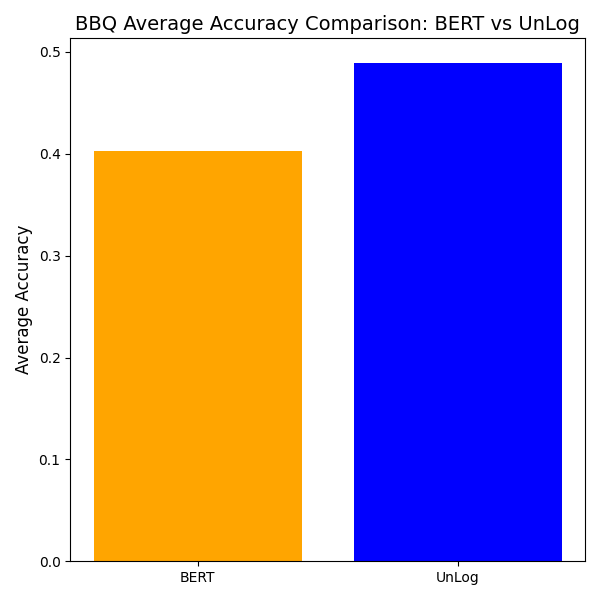
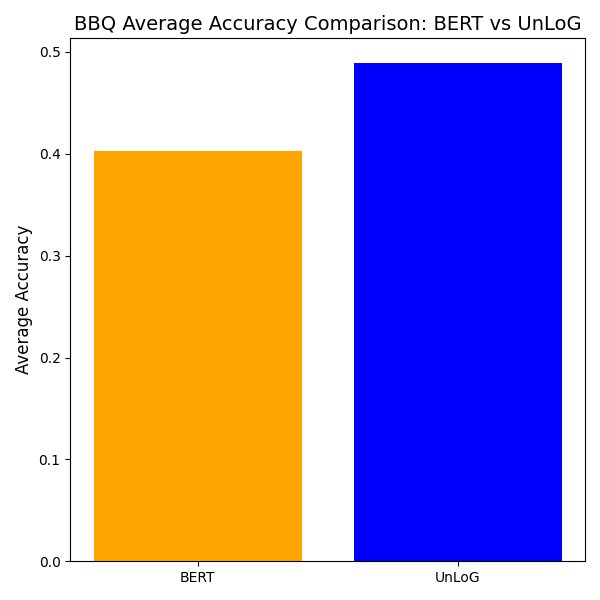
Modify: image title fixed

Changed region(s): [[0.12, 0.03, 0.99, 0.06], [0.72, 0.93, 0.81, 0.99]]

diff --git a/graph.py b/graph.py
@@ -3,7 +3,7 @@ import numpy as np
 
 # Data for comparison
 categories = [
-    "Age", "Disability_status", "Gender_identity","Nationality",    "Physical_appearance", "Race_ethnicity",
+    "Age", "Disability_status", "Gender_identity","Nationality", "Physical_appearance", "Race_ethnicity",
     "Race_x_gender", "Race_x_SES", "Religion", "SES", "Sexual_orientation"
 ]
 
@@ -30,17 +30,17 @@ width = 0.4  # Bar width
 
 # Plotting the bars for BERT and UnLog models
 bars_bert = ax.bar(x - width/2, bert_accuracies, width, label="BERT (baseline)", color='orange')
-bars_unlog = ax.bar(x + width/2, unlog_accuracies, width, label="UnLog (our model)", color='blue')
+bars_unlog = ax.bar(x + width/2, unlog_accuracies, width, label="UnLoG (our model)", color='blue')
 
 # Adding labels and title
 ax.set_xlabel('Category', fontsize=12)
 ax.set_ylabel('Accuracy', fontsize=12)
-ax.set_title('BBQ Accuracy Comparison: BERT vs UnLog', fontsize=14)
+ax.set_title('BBQ Accuracy Comparison: BERT vs UnLoG', fontsize=14)
 ax.set_xticks(x)
 ax.set_xticklabels(categories, rotation=45, ha='right', fontsize=10)
 ax.legend()
 
-"""# Adding values on top of the bars
+# Adding values on top of the bars
 def add_labels(bars):
     for bar in bars:
         height = bar.get_height()
@@ -51,17 +51,17 @@ def add_labels(bars):
                     ha='center', va='bottom', fontsize=10)
 
 add_labels(bars_bert)
-add_labels(bars_unlog)"""
+add_labels(bars_unlog)
 
-save_path = "/home/nlpgpu7/ellt/suyun/bbq_accuracy/evaluation/nolabel_BBQ_accuracy_comparison.png"
+save_path = "/home/nlpgpu7/ellt/suyun/bbq_accuracy/evaluation/image/BBQ_accuracy_comparison.png"
 plt.tight_layout()
 plt.savefig(save_path)
 print(f"그래프가 저장되었습니다: {save_path}")
 
 ##################################################################
 #2. 전체
-"""# Data for overall average accuracy comparison
-models = ['BERT', 'UnLog']
+# Data for overall average accuracy comparison
+models = ['BERT', 'UnLoG']
 average_accuracies = [0.40267884624845307, 0.48885746299589666]
 
 # Set up the figure for plotting
@@ -72,7 +72,7 @@ bars = ax.bar(models, average_accuracies, color=['orange', 'blue'])
 
 # Adding labels and title
 ax.set_ylabel('Average Accuracy', fontsize=12)
-ax.set_title('BBQ Average Accuracy Comparison: BERT vs UnLog', fontsize=14)
+ax.set_title('BBQ Average Accuracy Comparison: BERT vs UnLoG', fontsize=14)
 
 # Adding values on top of the bars
 def add_labels(bars):
@@ -86,7 +86,7 @@ def add_labels(bars):
 
 add_labels(bars)
 
-save_path = "/home/nlpgpu7/ellt/suyun/bbq_accuracy/evaluation/total_nolabel_BBQ_accuracy_comparison.png"
+save_path = "/home/nlpgpu7/ellt/suyun/bbq_accuracy/evaluation/image/total_nolabel_BBQ_accuracy_comparison.png"
 plt.tight_layout()
 plt.savefig(save_path)
-print(f"그래프가 저장되었습니다: {save_path}")"""
+print(f"그래프가 저장되었습니다: {save_path}")
